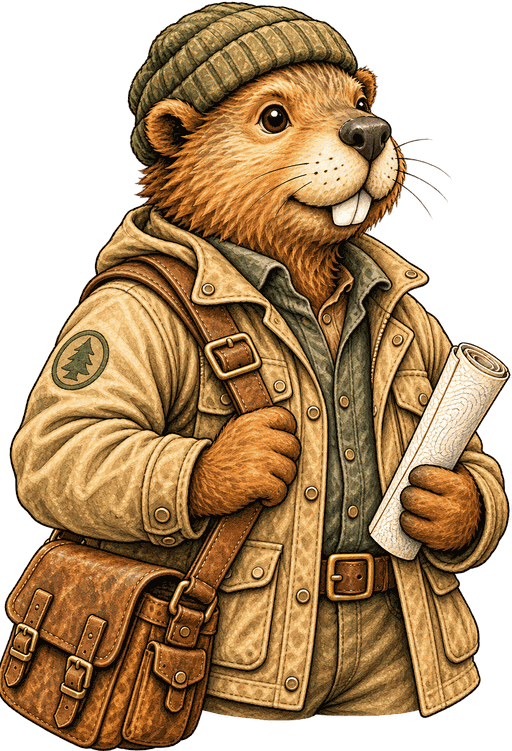
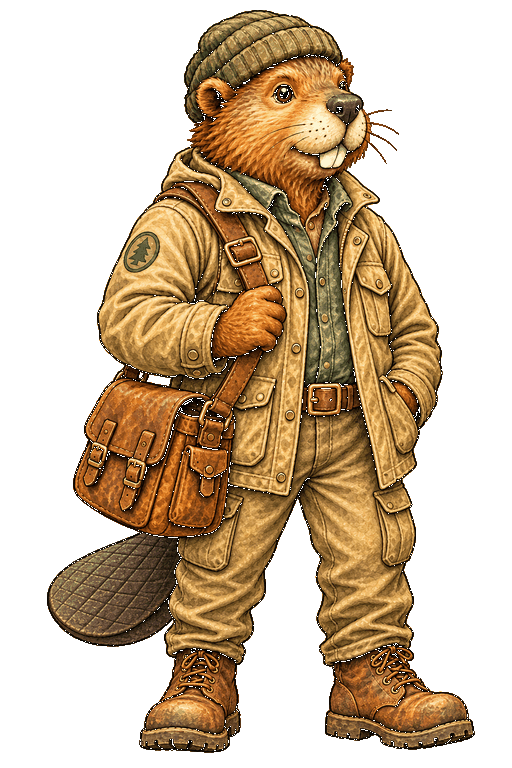
Fix Beaver idle grounding and polish staging Journey

diff --git a/site/index.html b/site/index.html
@@ -111,7 +111,17 @@
     .journey-nav .nav-links { gap: .15rem; padding: .15rem .3rem; }
     .journey-nav .nav-links a { font-size: .68rem; padding: .2rem .35rem; }
   }
+  #mobile-intro { display: none; }
   @media (max-width: 480px) {
+    body.opening-active #mobile-intro {
+      display: block; position: fixed; z-index: 11; top: 95px; left: 16px;
+      width: calc(100% - 32px); max-width: 370px; pointer-events: none;
+      color: #3b2f21; text-shadow: 0 1px 0 #fdf6e6;
+    }
+    #mobile-intro h1 { font: 700 clamp(3rem, 12vw, 4rem)/.9 'Caveat', cursive; }
+    #mobile-intro p { margin-top: .6rem; font: 500 1.2rem/1.2 'Caveat', cursive; }
+    #mobile-intro small { display: block; margin-top: .55rem; font: 500 1rem/1.2 'Patrick Hand', cursive; }
+    #badge { display: none; }
     .journey-nav { flex-direction: column; align-items: stretch; gap: .3rem; }
     .journey-nav .nav-brand { align-self: flex-start; }
     .journey-nav .nav-links {
@@ -138,6 +148,7 @@
   </div>
 </nav>
 
+<div id="mobile-intro"><h1>From Ledgers<br>to Agents</h1><p>Greg Tysick · a practical systems journey</p><small>Accounting and operations → systems builder → modern workflows</small></div>
 <canvas id="world" role="img" aria-label="Illustrated journey from accounting and operations through systems and practical AI."></canvas>
 <div id="loader"><div class="t">unrolling the map…</div><div class="bar"><i id="loadbar"></i></div></div>
 <div id="badge"><div class="k">FIELD MAP</div><div class="n">G. Tysick</div></div>
@@ -491,18 +502,19 @@ function buildChapter(ch, i, ox = 0) {
   }
 }
 
+const openingText = [];
 function buildOpening(ox) {   // ox = 0 real opening, SPAN = loop-bridge copy
   const o = MAP.opening, pl = o.place ?? {};
   const hl = pl.headline ?? {};
-  place(writingTexture({ lines: o.headline ?? ['The Field Map of', MAP.badge],
+  openingText.push(place(writingTexture({ lines: o.headline ?? ['The Field Map of', MAP.badge],
                          font: hl.font ?? '700 96px "Caveat"', ink: hl.ink ?? '#3b2f21', align: 'center' }),
-    { x: (hl.x ?? 5.2) + ox, y: hl.y ?? 5.0, h: hl.h ?? 2.6, tilt: hl.tilt ?? -.02 });
+    { x: (hl.x ?? 5.2) + ox, y: hl.y ?? 5.0, h: hl.h ?? 2.6, tilt: hl.tilt ?? -.02 }));
   if (o.tagline) { const t = pl.tagline ?? {};
-    place(writingTexture({ lines: [o.tagline], font: t.font ?? '500 58px "Caveat"', ink: t.ink ?? '#8a765a', align: 'center' }),
-      { x: (t.x ?? 5.2) + ox, y: t.y ?? 6.6, h: t.h ?? .8, z: t.z ?? .06 }); }
+    openingText.push(place(writingTexture({ lines: [o.tagline], font: t.font ?? '500 58px "Caveat"', ink: t.ink ?? '#8a765a', align: 'center' }),
+      { x: (t.x ?? 5.2) + ox, y: t.y ?? 6.6, h: t.h ?? .8, z: t.z ?? .06 })); }
   if (o.arc) { const a = pl.arc ?? {};
-    place(writingTexture({ lines: [o.arc], font: a.font ?? '500 52px "Caveat"', ink: a.ink ?? '#6d5c43', w: a.w ?? 1400 }),
-      { x: (a.x ?? 5.4) + ox, y: a.y ?? 3.4, h: a.h ?? .72, z: a.z ?? .06, tilt: a.tilt ?? .015 }); }
+    openingText.push(place(writingTexture({ lines: [o.arc], font: a.font ?? '500 52px "Caveat"', ink: a.ink ?? '#6d5c43', w: a.w ?? 1400 }),
+      { x: (a.x ?? 5.4) + ox, y: a.y ?? 3.4, h: a.h ?? .72, z: a.z ?? .06, tilt: a.tilt ?? .015 })); }
   if (o.hero?.image) { const h = pl.hero ?? {};
     cutout(o.hero.image, { x: (h.x ?? 11.3) + ox, y: h.y ?? 4.7, h: h.h ?? 3.1, wallPin: true, framed: true, sway: h.sway ?? .008 });
     if (o.hero.caption) { const c = pl.caption ?? {};
@@ -566,6 +578,25 @@ const RIDES = MAP.chapters.flatMap((ch, i) => {
   return [{ id: ch.ride, min: cx - RIDE_PAD, max: cx - RIDE_PAD + RIDE_LEN, flies: !!MAP.vehicles[ch.ride]?.flies }];
 });
 const rideAt = px => RIDES.find(r => px > r.min && px < r.max) ?? null;
+
+/* Chapter art appears when the Beaver rests near a waypoint. */
+const chapterBeavers = {};
+const CHAPTER_VICINITY = 3.0;
+MAP.chapters.forEach((ch, i) => {
+  if (!ch.beaver) return;
+  traveler(ch.beaver.file, ch.beaver.h ?? 0.85, 0, m => {
+    chapterBeavers[i] = m;
+    m.visible = false;
+  });
+});
+function nearestChapter(px) {
+  let best = -1, bestDist = CHAPTER_VICINITY;
+  for (let i = 0; i < MAP.chapters.length; i++) {
+    const d = Math.abs(px - wpXof(MAP.chapters[i], i));
+    if (d < bestDist) { bestDist = d; best = i; }
+  }
+  return best;
+}
 
 /* ════════════════ curves — camera + fox ════════════════ */
 const camCurve = new THREE.CatmullRomCurve3([
@@ -638,18 +669,21 @@ addEventListener('keydown', e => {
   if (e.key === 'ArrowUp' || e.key === 'PageUp') { targetP -= .012; dismissHint(); }
 });
 const wrap1 = v => ((v % 1) + 1) % 1;
+const reducedMotion = matchMedia('(prefers-reduced-motion: reduce)').matches;
 
 /* test/debug hooks + ?p= deep-seek for headless QA */
 window.__worldSeek = v => { targetP = v; };
 window.__scene = scene;
 window.__worldState = () => ({ p, targetP, cam: camera.position.toArray(),
   travelers: { fox: !!foxM, ...Object.fromEntries(Object.keys(MAP.vehicles ?? {}).map(id => [id, !!vehMesh[id]])) },
+  chapterBeavers: Object.fromEntries(Object.entries(chapterBeavers).map(([k,v]) => [k, !!v])),
   fox: (foxM && walkA && walkB) ? {
     sitVisible: foxM.visible, walkVisible: walkA.visible || walkB.visible,
     sitH: foxM.geometry.parameters.height, walkH: walkA.geometry.parameters.height,
     sitY: +foxM.position.y.toFixed(3), groupY: +foxGroup.position.y.toFixed(3),
     scale: +foxGroup.scale.x.toFixed(2),
     topLayer: foxM.renderOrder === 30 && !foxM.material.depthTest,
+    nearCh,
   } : null,
   pending, loaded });
 const QA = new URLSearchParams(location.search).has('qa');
@@ -663,9 +697,15 @@ addEventListener('pointermove', e => {
   mx = (e.clientX / innerWidth - .5) * 2; my = (e.clientY / innerHeight - .5) * 2;
 }, { passive: true });
 
+function updateResponsiveText() {
+  const narrow = innerWidth <= 480;
+  for (const m of openingText) m.visible = !narrow;
+}
+updateResponsiveText();
 addEventListener('resize', () => {
   camera.aspect = innerWidth / innerHeight; camera.updateProjectionMatrix();
   renderer.setSize(innerWidth, innerHeight);
+  updateResponsiveText();
 });
 
 /* ════════════════ render loop ════════════════ */
@@ -673,6 +713,7 @@ const look = new THREE.Vector3();
 const kmEl = document.getElementById('km');
 let lastKm = -1, flightY = 0;
 let last = performance.now(), shown = false, warmed = false;
+let nearCh = -1;
 renderer.setAnimationLoop(now => {
   const dt = Math.min((now - last) / 1000, .05); last = now;
   if (window.__ft) window.__ft.push(now - (window.__ftLast ?? now)), window.__ftLast = now;   // QA jank probe
@@ -680,10 +721,11 @@ renderer.setAnimationLoop(now => {
 
   // damp progress toward target; wrap both together so the seam never shows
   let d = targetP - p;
-  p += d * (1 - Math.exp(-3.5 * dt));
+  p += reducedMotion ? d : d * (1 - Math.exp(-3.5 * dt));
   if (p >= 1 && targetP >= 1) { p -= 1; targetP -= 1; }
   if (p < 0 && targetP < 0)   { p += 1; targetP += 1; }
   const cp = Math.max(0, Math.min(wrap1(p), 1));
+  document.body.classList.toggle('opening-active', cp < .04 || cp > .995);
 
   // camera along its curve — getPointAt (arc length) keeps camera & fox in lockstep
   camCurve.getPointAt(cp, camera.position);
@@ -703,16 +745,19 @@ renderer.setAnimationLoop(now => {
   const mode = ride ? ride.id : 'foot';
   const flying = !!(ride && ride.flies);
   for (const [id, m] of Object.entries(vehMesh)) m.visible = (mode === id);
-  // on foot + moving → 2-frame trot cycle; at rest (or riding) → the sitting fox
+  // Walk with shared frames; show a full-body chapter pose when resting near its waypoint.
   const onFootWalking = mode === 'foot' && Math.abs(d) > 0.0008 && walkA && walkB;
+  nearCh = mode === 'foot' && !onFootWalking ? nearestChapter(px) : -1;
+  for (const [ci, m] of Object.entries(chapterBeavers)) m.visible = Number(ci) === nearCh;
   if (foxM) {
     const [py, pxo] = PERCH[mode] ?? PERCH.foot;
     foxM.position.y = MASCOT.sit.h / 2 + py;
     foxM.position.x = pxo;
-    foxM.visible = !onFootWalking;
+    foxM.visible = !onFootWalking && (nearCh < 0 || !chapterBeavers[nearCh]);
+    if (mode !== 'foot') foxM.visible = true;
   }
   if (walkA && walkB) {
-    const gait = Math.floor(t * 7) % 2 === 0;
+    const gait = reducedMotion || Math.floor(t * 7) % 2 === 0;
     walkA.visible = onFootWalking && gait;
     walkB.visible = onFootWalking && !gait;
   }
@@ -725,15 +770,15 @@ renderer.setAnimationLoop(now => {
     foxGroup.position.y = flightY + Math.sin(t * 1.3) * .12;
     foxGroup.rotation.z = Math.sin(t * .9) * .03;
   } else if (mode === 'foot') {
-    foxGroup.position.y = flightY + Math.abs(Math.sin(t * 6)) * .05;   // trot
-    foxGroup.rotation.z = Math.sin(t * 6) * .02;
+    foxGroup.position.y = flightY + (reducedMotion ? 0 : Math.abs(Math.sin(t * 6)) * .05);
+    foxGroup.rotation.z = reducedMotion ? 0 : Math.sin(t * 6) * .02;
   } else {
     foxGroup.position.y = flightY + Math.abs(Math.sin(t * 7)) * .04;   // engine judder
     foxGroup.rotation.z = Math.sin(t * 7) * .02;
   }
   const vel = d;
   foxGroup.rotation.y = vel < -0.0001 ? Math.PI : 0;                   // face travel direction
-  foxGroup.rotation.z += Math.max(-.12, Math.min(.12, vel * 18));
+  if (!reducedMotion) foxGroup.rotation.z += Math.max(-.12, Math.min(.12, vel * 18));
 
   // odometer HUD
   const km = Math.round(cp * (MAP.odometerKm ?? 5600) / 10) * 10;
@@ -755,13 +800,13 @@ renderer.setAnimationLoop(now => {
       a.style.left = sx + 'px';
       a.style.top = sy + 'px';
       a.style.transform = 'translate(-50%, -50%)';
-      a.style.display = 'block';
+      a.style.display = sx > 70 && sx < innerWidth - 70 && sy > 80 && sy < innerHeight - 50 ? 'block' : 'none';
     } else {
       a.style.display = 'none';
     }
   }
 
-  for (const a of animated) a.fn(t);
+  if (!reducedMotion) for (const a of animated) a.fn(t);
   renderer.render(scene, camera);
 
   if (!shown) { shown = true;

diff --git a/site/map.config.js b/site/map.config.js
@@ -21,12 +21,12 @@ export const MAP = {
   },
 
   // Greg's Practical Engineer Beaver — replaces the temporary fox traveler.
-  // Assets: beaver-idle.png (resting/sitting), beaver-walk-a.png + beaver-walk-b.png (2-frame trot cycle)
+  // Corrected source mapping: Beaver 2 = idle, Beaver 3 = walk A, Beaver 4 = walk B.
   mascot: {
     scale: 1.10,
-    sit:   { file: 'beaver-idle.png',   h: 1.24, yOff: 0, perch: [-.19, 0] },
-    walkA: { file: 'beaver-walk-a.png', h: 0.70 },
-    walkB: { file: 'beaver-walk-b.png', h: 0.70 },
+    sit:   { file: 'beaver-idle.png',   h: 0.85, yOff: 0, perch: [0, 0] },
+    walkA: { file: 'beaver-walk-a.png', h: 0.85, yOff: 0 },
+    walkB: { file: 'beaver-walk-b.png', h: 0.85, yOff: 0 },
   },
 
   // Source-demo vehicles are retained only as dormant assets for now. The Greg V1
@@ -40,6 +40,7 @@ export const MAP = {
   chapters: [
     {
       id: 'ledger',
+      beaver: { file: 'beaver-ledger.png', h: 0.85 },
       wp: 'WP·00', wpX: 15.2,
       note: {
         title: '00 · the ledger — 1990s–2008',
@@ -56,6 +57,7 @@ export const MAP = {
 
     {
       id: 'practice',
+      beaver: { file: 'beaver-practice.png', h: 0.85 },
       wp: 'WP·01', wpX: 31.2,
       note: {
         title: '01 · the practice — 2009–2012',
@@ -72,6 +74,7 @@ export const MAP = {
 
     {
       id: 'network',
+      beaver: { file: 'beaver-network.png', h: 0.85 },
       wp: 'WP·02', wpX: 47.2,
       note: {
         title: '02 · the network — 2012–2017',
@@ -88,6 +91,7 @@ export const MAP = {
 
     {
       id: 'builder',
+      beaver: { file: 'beaver-builder.png', h: 0.85 },
       wp: 'WP·03', wpX: 63.2,
       note: {
         title: '03 · the builder — 2017–2023',
@@ -105,6 +109,7 @@ export const MAP = {
 
     {
       id: 'models',
+      beaver: { file: 'beaver-models.png', h: 0.85 },
       wp: 'WP·04', wpX: 79.2,
       note: {
         title: '04 · the models — 2022–present',
@@ -121,6 +126,7 @@ export const MAP = {
 
     {
       id: 'operating-system',
+      beaver: { file: 'beaver-operating-system.png', h: 0.85 },
       wp: 'WP·05', wpX: 95.4,
       finale: true,
       note: {

diff --git a/site/experience/index.html b/site/experience/index.html
@@ -62,7 +62,7 @@
           <li><a href="#network"><span>03</span>The Network</a></li>
           <li><a href="#builder"><span>04</span>The Builder</a></li>
           <li><a href="#models"><span>05</span>The Models</a></li>
-          <li><a href="#operating-system"><span>06</span>The Operating System</a></li>
+          <li><a href="#operating-system"><span>06</span>Modern Workflows</a></li>
         </ol>
       </aside>
       <div class="chapters">
